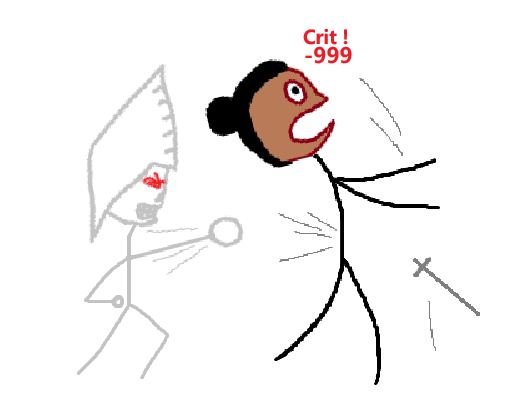
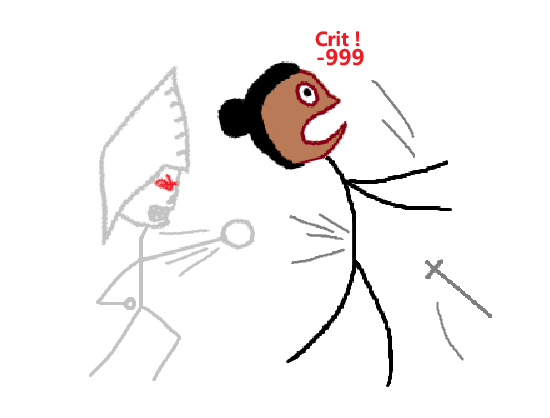
Add a new card. Fix some bugs.

diff --git a/Code/Cards/Rare/CheatDeath.cs b/Code/Cards/Rare/CheatDeath.cs
@@ -12,11 +12,12 @@ namespace Flagellant.Code.Cards.Rare;
 [Pool(typeof(FlagellantCardPool))]
 public class CheatDeath : FlagellantCardModel
 {
-    private int _healthChangedTimes = 0;
+    private int _needChangedTimes = 3;
     public CheatDeath() : base(0, CardType.Attack, CardRarity.Rare, TargetType.AnyEnemy)
     {
         WithDamage(6, 3);
-        WithVar("HealthChangedTimes", 3);
+        WithVar("NeedChangedTimes", _needChangedTimes);
+        WithVar("HealthChangedTimes", 0);
     }
 
     protected override async Task OnPlay(PlayerChoiceContext choiceContext, CardPlay cardPlay)
@@ -28,15 +29,20 @@ public class CheatDeath : FlagellantCardModel
         //这个事件会广播给deck内的卡牌，所以记得排除
         if (!IsInCombat) return;
 
-        if (delta == 0m || creature != Owner.Creature || Owner.Creature.CombatState == null || CombatManager.Instance.IsOverOrEnding)
+        if (delta == 0m || creature != Owner.Creature || base.CombatState == null || CombatManager.Instance.IsOverOrEnding
+            || base.CombatState.CurrentSide != base.Owner.Creature.Side)
         {
             return;
         }
 
-        ++_healthChangedTimes;
-        if (_healthChangedTimes % 3 == 0 && base.Pile.Type != PileType.Hand)
+        base.DynamicVars["HealthChangedTimes"].BaseValue++;
+        if (base.DynamicVars["HealthChangedTimes"].BaseValue % _needChangedTimes == 0)
         {
-            await CardPileCmd.Add(this, PileType.Hand);
+            base.DynamicVars["HealthChangedTimes"].BaseValue = 0;
+            if (base.Pile.Type != PileType.Hand)
+            {
+                await CardPileCmd.Add(this, PileType.Hand);
+            }
         }
         return;
     }

diff --git a/Code/Cards/Rare/Annihilate.cs b/Code/Cards/Rare/Annihilate.cs
@@ -1,0 +1,36 @@
+using BaseLib.Utils;
+using Flagellant.Code.Abstract;
+using Flagellant.Code.Character;
+using Flagellant.Code.Powers;
+using MegaCrit.Sts2.Core.Combat;
+using MegaCrit.Sts2.Core.Commands;
+using MegaCrit.Sts2.Core.Entities.Cards;
+using MegaCrit.Sts2.Core.Entities.Creatures;
+using MegaCrit.Sts2.Core.GameActions.Multiplayer;
+
+namespace Flagellant.Code.Cards.Rare;
+
+[Pool(typeof(FlagellantCardPool))]
+public class Annihilate : FlagellantCardModel
+{
+    protected override bool ShouldGlowGoldInternal => HasAnyComboMarkedEnemy;
+    public Annihilate() : base(1, CardType.Attack, CardRarity.Rare, TargetType.AnyEnemy)
+    {
+        WithDamage(12,4);
+        WithVar("ComboDamage", 24, 8);
+        WithPower<ComboPower>(1);
+    }
+
+    protected override async Task OnPlay(PlayerChoiceContext choiceContext, CardPlay cardPlay)
+    {
+        if (cardPlay.Target != null && cardPlay.Target.GetPower<ComboPower>() is ComboPower comboP)
+        {
+            await PowerCmd.ModifyAmount(comboP, -1, Owner.Creature, this);
+            await CommonActions.CardAttack(this, cardPlay.Target, base.DynamicVars["ComboDamage"].BaseValue).Execute(choiceContext);
+        }
+        else
+        {
+            await CommonActions.CardAttack(this, cardPlay.Target).Execute(choiceContext);
+        }
+    }
+}

diff --git a/Code/Cards/Common/BackToThePit.cs b/Code/Cards/Common/BackToThePit.cs
@@ -6,7 +6,6 @@ using MegaCrit.Sts2.Core.Combat.History.Entries;
 using MegaCrit.Sts2.Core.Entities.Cards;
 using MegaCrit.Sts2.Core.Entities.Creatures;
 using MegaCrit.Sts2.Core.GameActions.Multiplayer;
-using MegaCrit.Sts2.Core.Logging;
 using MegaCrit.Sts2.Core.Models;
 
 namespace Flagellant.Code.Cards.Common;
@@ -49,7 +48,8 @@ public class BackToThePit : FlagellantCardModel
         //这个事件会广播给deck内的卡牌，所以记得排除
         if (!IsInCombat) return Task.CompletedTask;
 
-        if (delta >= 0m || creature != Owner.Creature || Owner.Creature.CombatState == null || CombatManager.Instance.IsOverOrEnding)
+        if (delta >= 0m || creature != Owner.Creature || base.CombatState == null || CombatManager.Instance.IsOverOrEnding
+            || base.CombatState.CurrentSide != base.Owner.Creature.Side)
         {
             return Task.CompletedTask;
         }

diff --git a/Code/Cards/Uncommon/GiveNoQuarter.cs b/Code/Cards/Uncommon/GiveNoQuarter.cs
@@ -21,11 +21,11 @@ public class GiveNoQuarter : FlagellantCardModel
 
     protected override async Task OnPlay(PlayerChoiceContext choiceContext, CardPlay cardPlay)
     {
-        await CommonActions.CardAttack(this, cardPlay).Execute(choiceContext);
         if(cardPlay.Target !=  null && cardPlay.Target.GetPower<ComboPower>() is ComboPower comboP)
         {
             await PowerCmd.ModifyAmount(comboP, -1, base.Owner.Creature, this);
             await CommonActions.ApplySelf<GiveNoQuarterPower>(this);
         }
+        await CommonActions.CardAttack(this, cardPlay).Execute(choiceContext);
     }
 }
